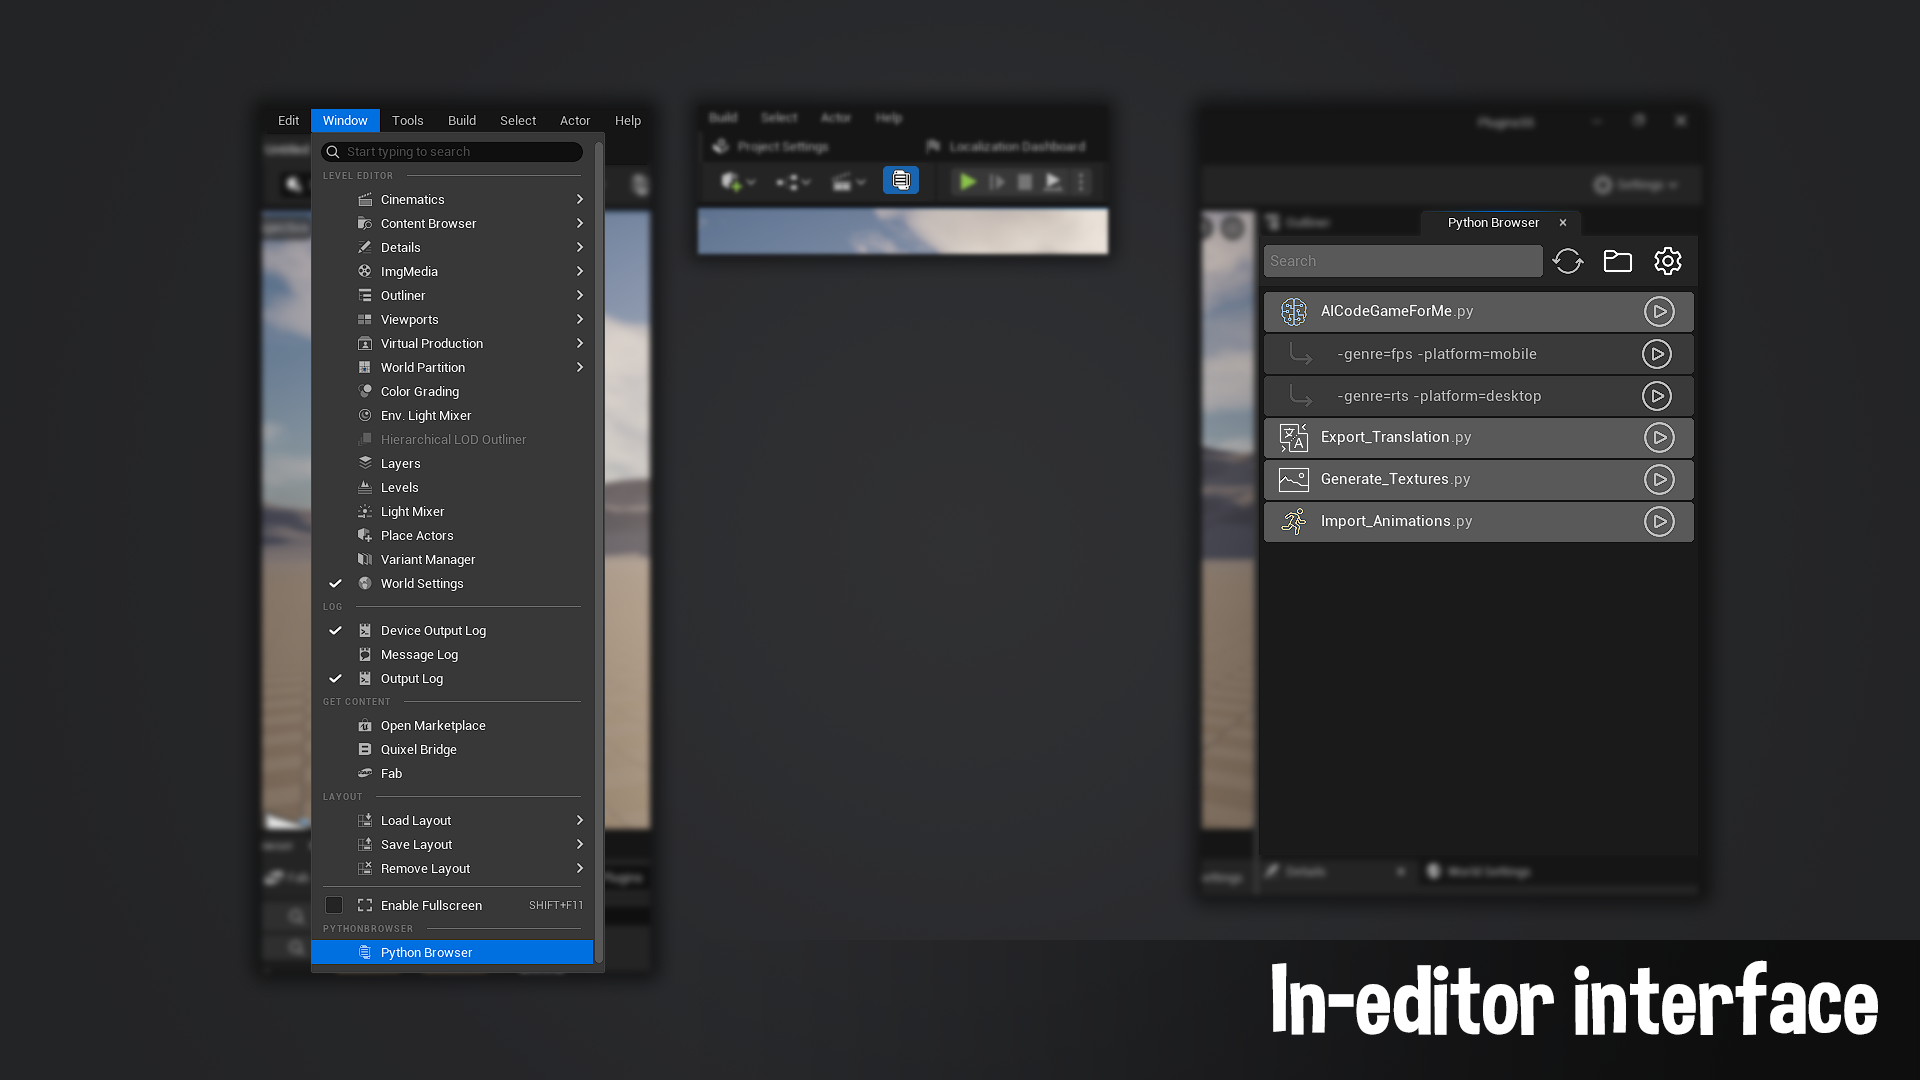
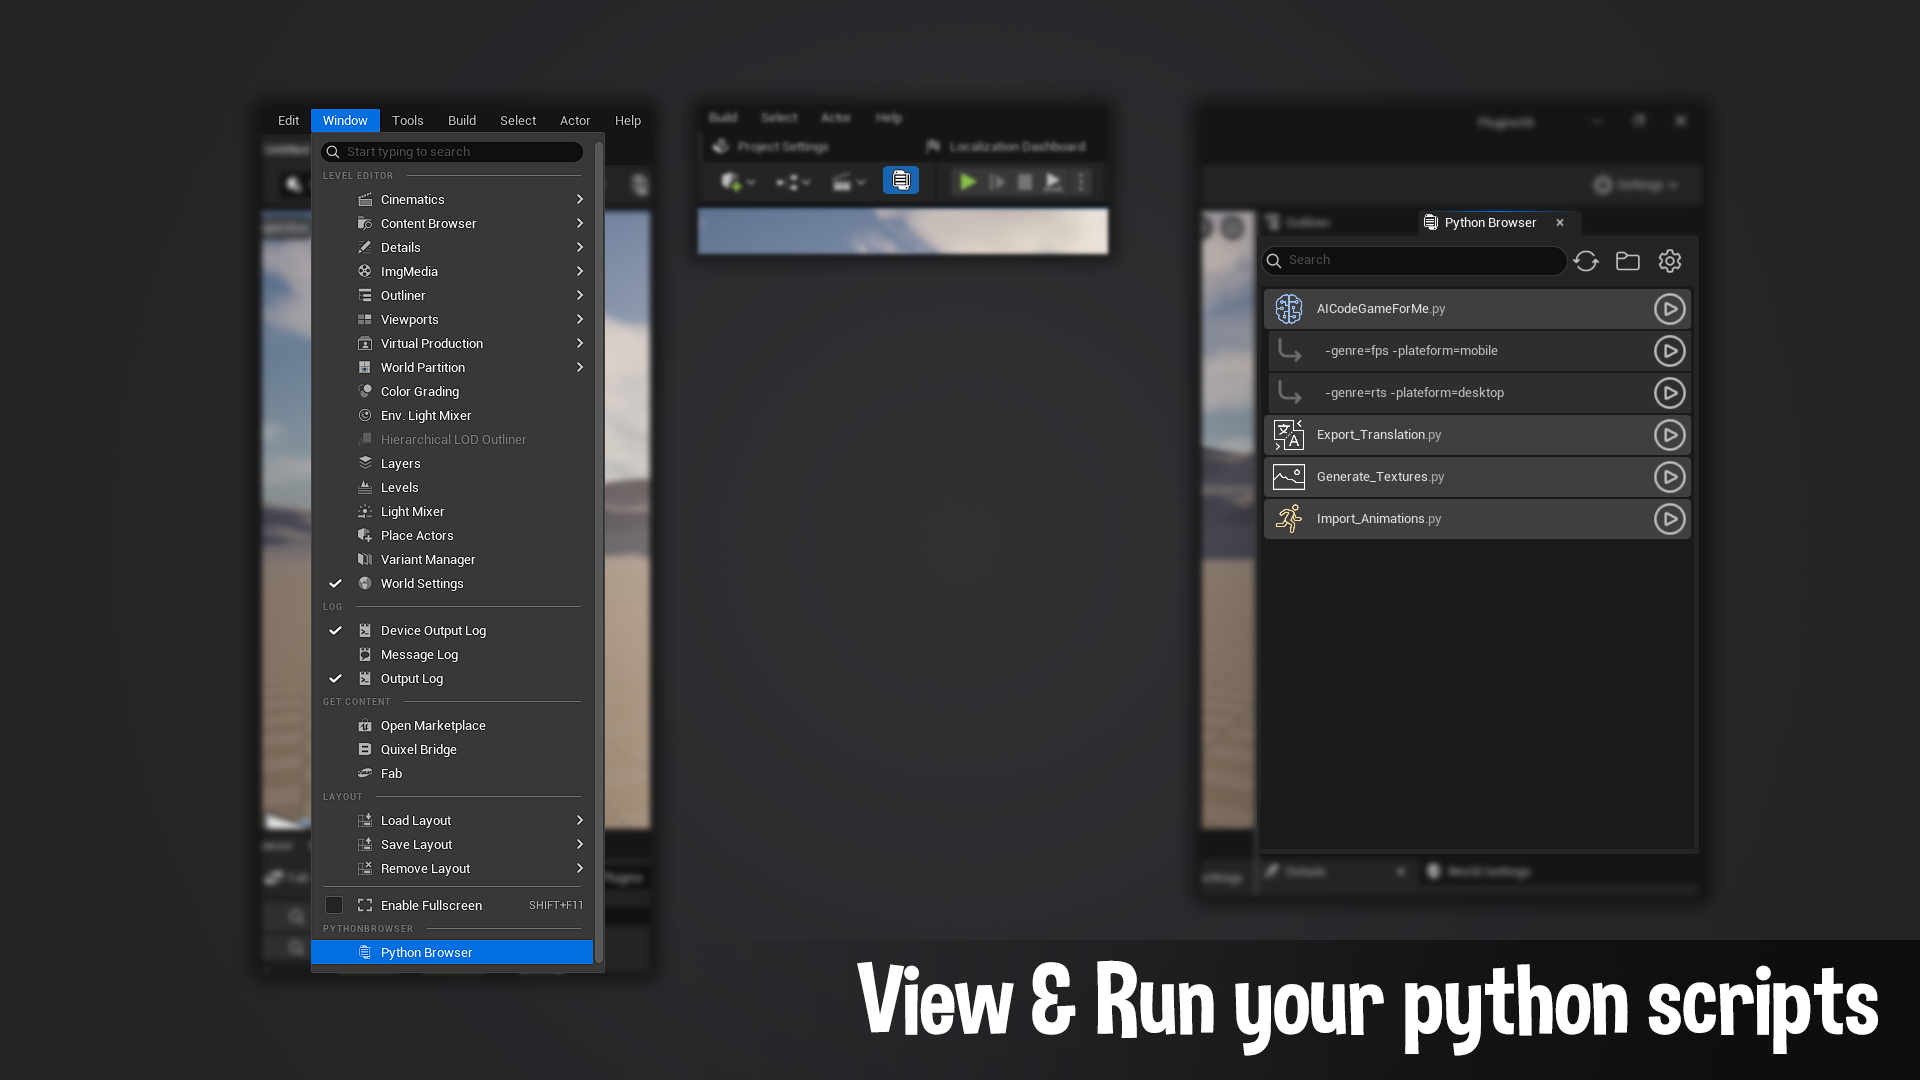
Updated python browser

Changed region(s): [[0.6562, 0.1833, 0.9062, 0.5194], [0.4375, 0.8861, 1.0, 0.9778]]

diff --git a/docs/PythonBrowser/Overview.md b/docs/PythonBrowser/Overview.md
@@ -8,9 +8,22 @@ parent: Python Browser
 # Overview
 <br>
 
+![](assets/PythonBrowser_Screenshots_0.png)
+
+***
+<br>
+
 Python Browser is an Unreal Engine plugin that allows you to quickly browse all the python scripts and run them straight from the editor.  The tool streamlines script execution by enabling users to create presets for specific arguments, eliminating the need to manually input them each time. This is an editor only tool meaning it won’t affect your packaged build.
 
-![](assets/PythonBrowser_Screenshots_0.png)
+<br>
+
+
+#### Features
+* **Drag & Drop:** Simply pull any asset from the Content Browser into the window to bookmark it.
+- **Python Scripts:** Instantly view all available scripts.
+- **Custom Argument Presets:**  Save frequently used script parameters.
+- **Script icons:** Add icons to your script to quickly find them
+- **Search:** Search bar to filter through all the available scripts.
 
 ***
 
@@ -21,11 +34,9 @@ Python Browser is an Unreal Engine plugin that allows you to quickly browse all 
 
 ***
 
-## Features
-
-- Python Scripts: Instantly view all available scripts.
-- Search: Search bar to filter through all the available scripts.
-- Custom Argument Presets:  Save frequently used script parameters.
-
+## How does it work
   
 By default, Python scripts stored in the Project/Content/Python directory will automatically appear in the browser list. The search path can be customized in the plugin settings. Scripts run as they would through the OutputLog, ensuring full compatibility with Unreal's Python API and logging outputs.
+
+Icons need to be .png, .jpg or .jpeg and ideally of size 40x40 (though bigger and smaller sizes are supported). Simply place them in the same folder as your scripts with the same name.
+So for a script named 'foo.py', its icon would be 'foo.png'.

diff --git a/docs/PythonBrowser/Changelog.md b/docs/PythonBrowser/Changelog.md
@@ -1,0 +1,19 @@
+---
+title: Changelog
+parent: Python Browser
+layout: page
+nav_enabled: true
+nav_order: "10"
+---
+# Changelog
+<br>
+
+<br>
+## Version 1 - 04/02/2026 
+
+* Replaced all Widget Blueprint interfaces by Slate equivalent
+*  Added support for Unreal Engine 5.7
+
+## Version 0 - 23/01/2025
+
+* Initial Release
